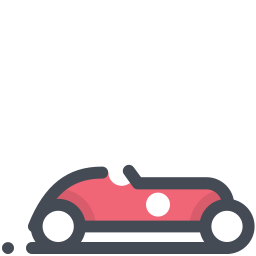
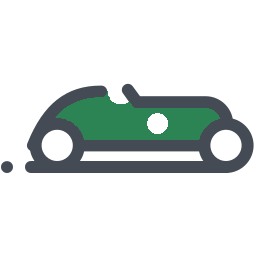
Becoming a Driver done, Home and Sign up fixed

diff --git a/templates/szchober/become-a-driver.html b/templates/szchober/become-a-driver.html
@@ -1,4 +1,78 @@
+<!DOCTYPE html>
+<!--{% load staticfiles %}-->
+<html>
+    <head>
+        <title>Szch&#246ber.</title>
+        <link rel="stylesheet" type="text/css" href="templatestyles.css">
+    </head>
+    <body>
+        <header id="main-header">
+            <div class="main-header">
+                <a href="#"><h1>Szch<span>&#246</span>ber.</h1></a>
 
+            </div>
+        </header>
+            <nav id="navbar">
+                <ul class="navbar-left">
+                    <li><a href="#">Driver</a></li>
+                    <li><a href="#">Rider</a></li>
+                    <li ><a href="#" style="color: rgb(44, 131, 83)">About us</a></li>
+                </ul>
+                <ul class="navbar-right">
+                    <li class="login"><a href="#">Log in</a></li>
+                    <li class="signup"><a href="#" style="color: rgb(44, 131, 83);">Sign up</a></li>
+                </ul>
+            </nav>
+            <h1 style="font-size: 18pt; visibility: hidden;">You can't see me</h1>
+            <br>
+
+            <section class="boxed" >
+                <div>
+                    <h3 style="display: inline;">Become a Driver</h3>
+                </div>
+                <div>
+                    <h3 style="display: inline;">Register</h3>
+                </div>
+                <div>
+                    <a href="{% url 'szchober:sign-up/become-a-rider' %}"><img src="../../static/images/carf.png" alt="car" style= "width: 300px; border: 2px rgb(44, 131, 83) solid; background-color: #64A874;" ></a>
+                    <br>
+                </div>
+                <div>
+                    <div style="border: 2px  rgb(44, 131, 83) solid; width: 300px; height: 300px; padding-top: 4%; ">
+                        
+
+                        <!-- Input database file here -->
+                        <form action="process.php" method="POST">
+                            <div>
+                                <div class="twoperline">
+                                    <input type="text" name="forename" placeholder="Forename"  >
+                                    <input type="text" name="surname" placeholder="Surname" >
+                                </div>
+                                <input class="oneperline" type="email" name="email" placeholder="Email">
+                                <input class="oneperline" type="password" name="password" placeholder="Password">
+                                <input class="oneperline" type="tel" name="phone" placeholder="Phone Number">
+                                <div class="twoperline">
+                                    <input type="text" name="carmake" placeholder="Car Make"> 
+                                    <input type="text" name="carmodel" placeholder="Car Model" >
+                                </div>
+                                <input class="oneperline" type="text" name="regplate" placeholder="Registration Plate">
+                                <input class="submitbutton" type="submit" name="submit" value="Submit">
+
+
+
+
+
+                            </div>
+                        </form>
+
+                    </div>
+                </div>
+    </section>     
+
+
+
+
+<!--
 {% load staticfiles %}
 
 {% block title_block %}
@@ -24,3 +98,27 @@ Rango says:<strong>thank you for registering!</strong>
 </form>
 {% endif %}
 {% endblock %}
+-->
+        
+    </section>
+    <footer>
+        <br>
+        <nav id="navbar">
+            <ul class="navbar-left">
+                <li><a href="#"><img src="../../static/images/420px-Globe_icon.svg.png" alt=""></a></li>
+                <li><a href="#">
+                    <div>
+                        <h3 style="color: black;">Contact us</h3>
+                        <h1 style="color: rgb(44, 131, 83); font-size: 10px; padding-top: 5px ;">+44 749 4671 324</h1>
+                        <h1 style="color: rgb(44, 131, 83); font-size: 10px; padding-top: 5px ;">Feedback</h1>
+                    </div>
+                </a></li>
+            </ul>
+            <ul class="navbar-right">
+                <li><a href="#"><img src="../../static/images/download-on-app-store-png-2.png" alt=""></a></li>
+                <li><a href="#"><img src="../../static/images/socials.png" alt=""></a></li>
+            </ul>
+        </nav>
+    </footer>
+    </body>
+</html>

diff --git a/templates/szchober/templatestyles.css b/templates/szchober/templatestyles.css
@@ -2,6 +2,7 @@
     display: grid;
     grid-template-columns: 50% 50%;
     text-align: center;
+    justify-items: center;
 
 }
 
@@ -319,3 +320,31 @@ a:link {
 	background-image: linear-gradient(to right, rgba(255,217,102,0), rgba(255,217,102,1));
 }
 
+
+.oneperline{
+    width: 98%;
+    padding: 5px;
+    margin: 4px 0px;
+    font-family: Verdana, Geneva, Tahoma, sans-serif;
+    font-weight: 400;
+}
+
+.twoperline{
+    width: 98%;
+    display: grid;
+    grid-template-columns: 50% 50%;
+    font-family: Verdana, Geneva, Tahoma, sans-serif;
+    font-weight: 400;
+}
+
+.twoperline input{
+    width: 98%;
+    padding: 5px;
+    margin: 4px 3px;
+
+}
+
+.submitbutton{
+    padding: 10px 20px;
+    background-color: rgb(100,168,116);
+}

diff --git a/templates/szchober/sign-up.html b/templates/szchober/sign-up.html
@@ -33,7 +33,7 @@
                         <h3 style="display: inline">Become a Rider</h3>
                     </div>
                     <div>
-                        <a href="{% url 'szchober:sign-up/become-a-rider' %}"><img src="../../static/images/car.png" alt="car" style= "width: 300px; border: 2px rgb(44, 131, 83) solid; background-color: #64A874;" ></a>
+                        <a href="{% url 'szchober:sign-up/become-a-rider' %}"><img src="../../static/images/carf.png" alt="car" style= "width: 300px; border: 2px rgb(44, 131, 83) solid; background-color: #64A874;" ></a>
                         <br>
                     </div>
                     <div>
